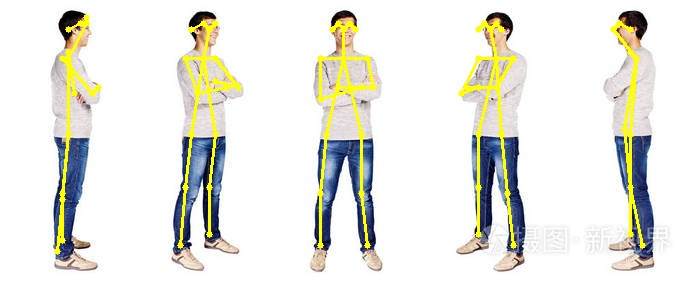
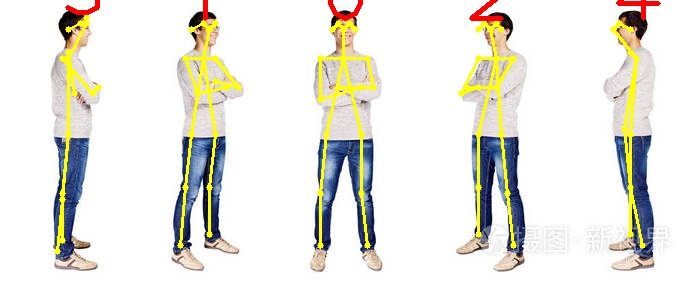
add tracker

diff --git a/include/pose.hpp b/include/pose.hpp
@@ -8,38 +8,32 @@ namespace poseEstimation{
         cv::Point point;
         float conf;
         int idx;
-        keypoint(cv::Point point,float conf,int idx):point(point),conf(conf),idx(idx){}
+        keypoint(cv::Point point,float conf,int idx):
+            point(point),conf(conf),idx(idx){}
     };
 
     class Pose{
-    private:
-        const std::vector<std::string> kpt_names{"nose", "neck",
-                 "r_sho", "r_elb", "r_wri", "l_sho", "l_elb", "l_wri",
-                 "r_hip", "r_knee", "r_ank", "l_hip", "l_knee", "l_ank",
-                 "r_eye", "l_eye",
-                 "r_ear", "l_ear"};
-        const std::vector<float> sigmas{0.026     , 0.079     , 0.079     , 0.072     , 0.062     ,
-        0.079     , 0.072     , 0.062     , 0.10700001, 0.087     ,
-        0.089     , 0.10700001, 0.087     , 0.089     , 0.025     ,
-        0.025     , 0.035     , 0.035    };
-        const std::vector<float> vars{0.002704  , 0.024964  , 0.024964  , 0.020736  , 0.015376  ,
-        0.024964  , 0.020736  , 0.015376  , 0.04579601, 0.030276  ,
-        0.031684  , 0.04579601, 0.030276  , 0.031684  , 0.0025    ,
-        0.0025    , 0.0049    , 0.0049   };
-
-        const std::vector<std::vector<int>> BODY_PARTS_KPT_IDS = 
-        {{1, 2}, {1, 5}, {2, 3}, {3, 4}, {5, 6}, {6, 7}, {1, 8}, {8, 9}, {9, 10}, {1, 11},
-                      {11, 12}, {12, 13}, {1, 0}, {0, 14}, {14, 16}, {0, 15}, {15, 17}, {2, 16}, {5, 17}};
-
-
-        public:
+    public:
         std::vector<cv::Point> keypoints;
         float confidence;
+        cv::Rect bbox;
+        int track_id;
         const static int num_kpts = 18;
-        Pose(std::vector<cv::Point> keypoints, float confidence=1):keypoints(keypoints),confidence(confidence){
+        Pose(std::vector<cv::Point> keypoints, float confidence=1):
+            keypoints(keypoints),confidence(confidence){
+                this->bbox = this->get_bbox();                
+                this->track_id = -1;
         }
 
-        void draw(cv::Mat img){
+        Pose& operator=(const Pose& obj){
+            this->keypoints = obj.keypoints;
+            this->confidence = obj.confidence;
+            this->bbox = obj.bbox;
+            this->track_id = obj.track_id;
+            return *this;
+        }
+
+        void draw(cv::Mat &img, bool draw_track_id = false){
             for(int part_id = 0 ;part_id < this->BODY_PARTS_KPT_IDS.size() - 2 ; part_id++){
                 int kpt_a_id = this->BODY_PARTS_KPT_IDS[part_id][0];
                 int global_kpt_a_id = this->keypoints[kpt_a_id].x;
@@ -59,6 +53,81 @@ namespace poseEstimation{
                     cv::line(img ,p_a ,p_b, cv::Scalar(0,255,255), 2);
                 }
             }
+            if(draw_track_id && this->track_id != -1)
+                cv::putText(img, std::to_string(this->track_id), cv::Point(this->bbox.x,this->bbox.y),cv::FONT_HERSHEY_PLAIN,5,cv::Scalar(0,0,255),3,8);
+        }
+
+    private:
+        const std::vector<std::string> kpt_names{"nose", "neck",
+                 "r_sho", "r_elb", "r_wri", "l_sho", "l_elb", "l_wri",
+                 "r_hip", "r_knee", "r_ank", "l_hip", "l_knee", "l_ank",
+                 "r_eye", "l_eye",
+                 "r_ear", "l_ear"};
+
+        const std::vector<std::vector<int>> BODY_PARTS_KPT_IDS = 
+        {{1, 2}, {1, 5}, {2, 3}, {3, 4}, {5, 6}, {6, 7}, {1, 8}, {8, 9}, {9, 10}, {1, 11},
+                      {11, 12}, {12, 13}, {1, 0}, {0, 14}, {14, 16}, {0, 15}, {15, 17}, {2, 16}, {5, 17}};
+
+
+        cv::Rect get_bbox(){
+            std::vector<cv::Point> found_keypoints(this->keypoints.size());
+            auto it = std::copy_if(this->keypoints.begin(), this->keypoints.end(), found_keypoints.begin(),
+                [](const cv::Point& p){ return p.x != -1;});
+            found_keypoints.resize(std::distance(found_keypoints.begin(),it));
+            return cv::boundingRect(found_keypoints);
+        }
+    };
+
+    class poseTracker{        
+    public:
+        void track(std::vector<Pose> &current_poses, int threshold = 3, bool smooth = false){
+            std::sort(current_poses.begin(), current_poses.end(),
+                [](const Pose& a, const Pose& b){
+                    return a.confidence>b.confidence;  
+                });
+            std::vector<int> mask(previous_poses.size(), 1);
+            for(int i = 0; i < current_poses.size(); i++){
+                int best_matched_id = -1, best_matched_pose_id = -1, best_matched_iou = -1;
+                for(int j = 0; j < this->previous_poses.size(); j++){
+                    if(!mask[j])
+                        continue;
+                    int iou = get_similarity(current_poses[i], this->previous_poses[j]);
+                    if(iou > best_matched_iou){
+                        best_matched_id = j;
+                        best_matched_pose_id = this->previous_poses[j].track_id;
+                        best_matched_iou = iou;
+                    }
+                }
+                if(best_matched_iou >= threshold)
+                    mask[best_matched_id] = 0;
+                else
+                    best_matched_pose_id = ++this->max_pose_id;
+               current_poses[i].track_id = best_matched_id;
+            }
+            this->previous_poses = current_poses;
+        }
+
+    private:
+        int max_pose_id = -1;
+        std::vector<Pose> previous_poses;
+
+        const std::vector<float> vars{0.002704  , 0.024964  , 0.024964  , 0.020736  , 0.015376  ,
+        0.024964  , 0.020736  , 0.015376  , 0.04579601, 0.030276  ,
+        0.031684  , 0.04579601, 0.030276  , 0.031684  , 0.0025    ,
+        0.0025    , 0.0049    , 0.0049   };
+
+        int get_similarity(const Pose& a, const Pose& b, float threshold = 0.5){
+            int num_similar_kpt = 0;
+            for(int kpt_id = 0; kpt_id < Pose::num_kpts; kpt_id++){
+                if(a.keypoints[kpt_id].x != -1 && b.keypoints[kpt_id].x != -1){
+                    double distance = cv::norm(a.keypoints[kpt_id] - b.keypoints[kpt_id]);
+                    double area = std::max(a.bbox.area(), b.bbox.area());
+                    double similarity = exp( -distance / (2 * area)* this->vars[kpt_id]);
+                    if(similarity > threshold)
+                        num_similar_kpt++;
+                }
+            }
+            return num_similar_kpt;
         }
     };
 }

diff --git a/include/poseEstimation.hpp b/include/poseEstimation.hpp
@@ -65,7 +65,7 @@ namespace poseEstimation{
     
         std::vector<Pose> postProcess(const std::vector<cv::Mat>& outs){
 
-            cv::Mat heatmaps =outs[0]; //1*19*120*120
+            cv::Mat heatmaps =outs[0];
             std::vector<cv::Mat> heatmaps_channels(heatmaps.size[1] - 1);
             for(int i = 0;i<heatmaps.size[1] - 1;i++){
     		    cv::Mat heatMap(heatmaps.size[2], heatmaps.size[3], CV_32F, reinterpret_cast<float*>(const_cast<uchar*>(heatmaps.ptr(0, i))));
@@ -73,7 +73,7 @@ namespace poseEstimation{
                 heatmaps_channels[i]=heatMap;
             }
 
-            cv::Mat pafs = outs[1]; // 1*38*120*120
+            cv::Mat pafs = outs[1]; 
             std::vector<cv::Mat> pafs_channels(pafs.size[1]);
             for(int i = 0;i<pafs.size[1];i++){
     		    cv::Mat paf(heatmaps.size[2], heatmaps.size[3], CV_32F, reinterpret_cast<float*>(const_cast<uchar*>(pafs.ptr(0,i))));

diff --git a/main.cpp b/main.cpp
@@ -6,12 +6,15 @@
 
 int main(){
 
-	poseEstimation::poseEstimation pe = poseEstimation::poseEstimation("../models/poseEstimationModel.onnx");
+	poseEstimation::poseEstimation pe("../models/poseEstimationModel.onnx");
+	poseEstimation::poseTracker pt;
 
+	
 	cv::Mat img = cv::imread("../input.jpg");
 	std::vector<poseEstimation::Pose> poses = pe.run(img);
+	pt.track(poses);
 	for(int i = 0; i < poses.size(); i++)
-		poses[i].draw(img);
+		poses[i].draw(img, true);
 	cv::imwrite("../output.jpg", img);
 
 	return 0;
